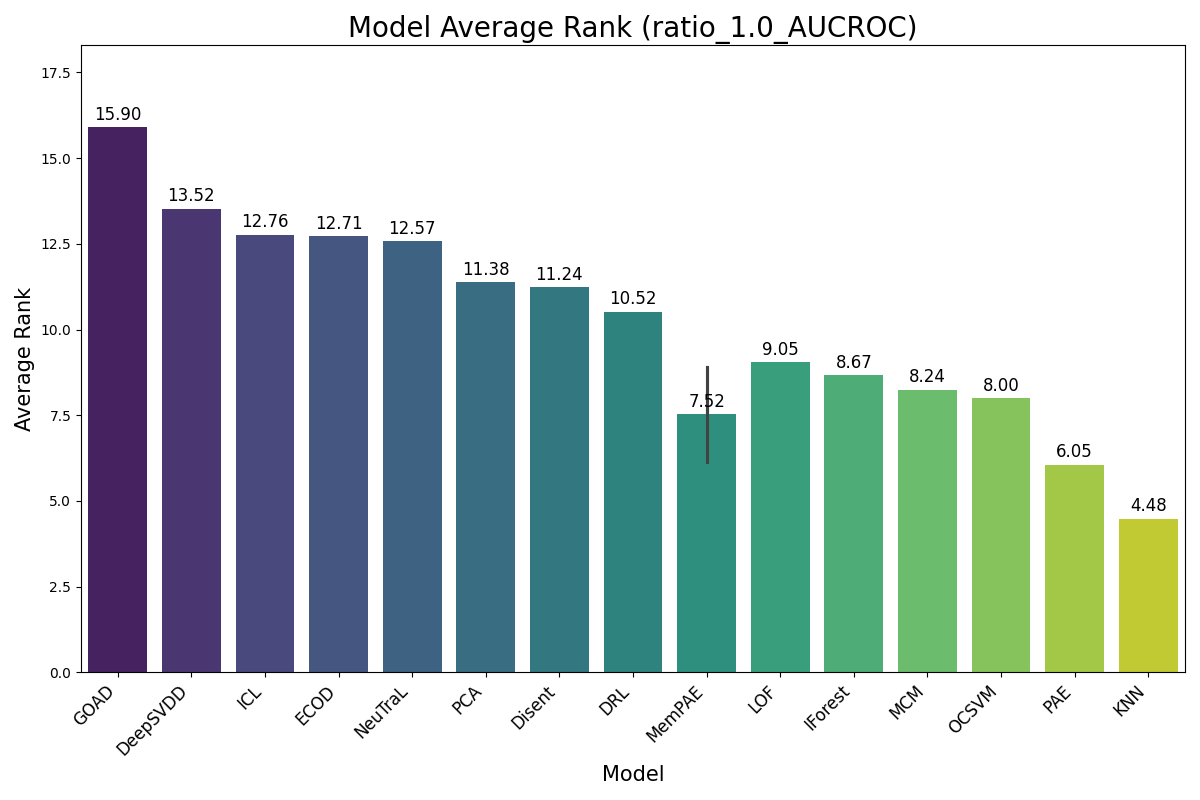
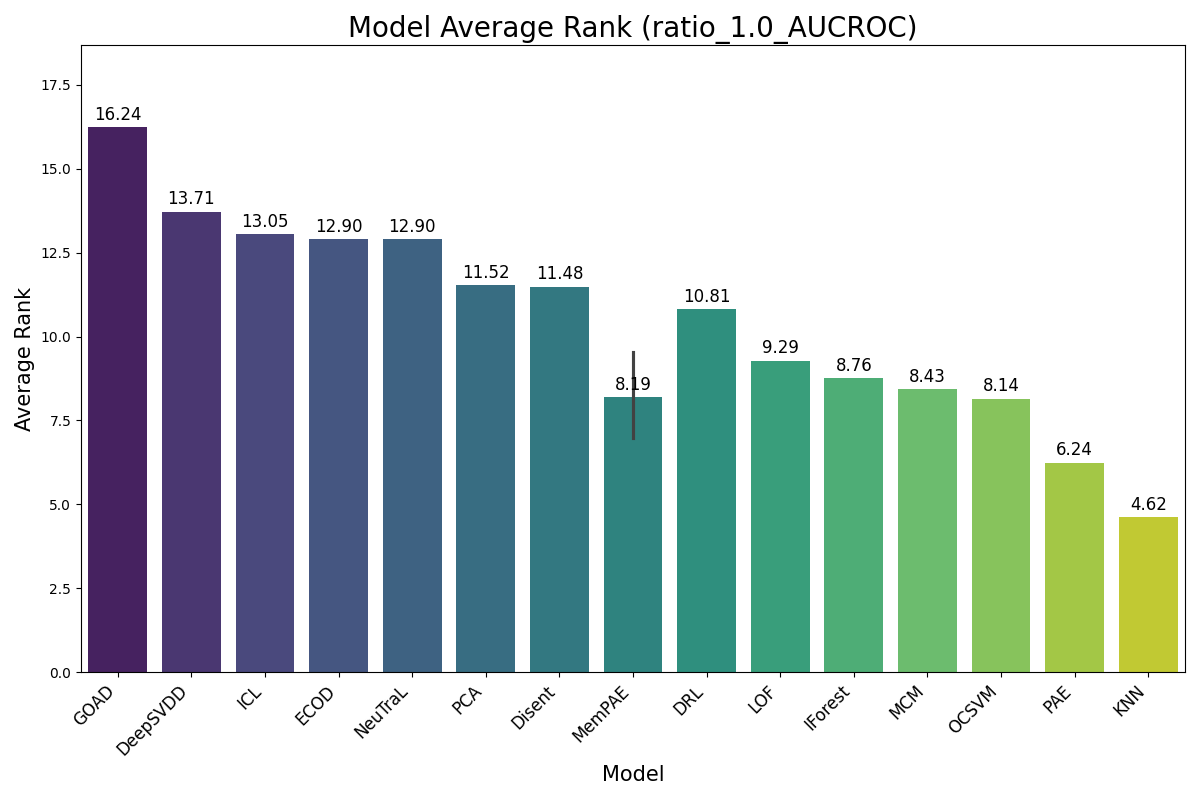
temp

diff --git a/summary.py b/summary.py
@@ -672,6 +672,8 @@ def main(args):
         'MemPAE-ws-pos_query+token-np-top3-L5-d64-lr0.001-t0.1',
         'MemPAE-ws-pos_query+token-np-top1-L5-d64-lr0.001-t0.1',
         'MemPAE-ws-l2-d64-lr0.001',
+        'MemPAE-ws-pos_query+token-np-l2-top5-L5-d64-lr0.001-t0.1',
+        'MemPAE-ws-pos_query+token-np-l2-top3-L5-d64-lr0.001-t0.1',
         # 'MemPAE-ws-pos_query+token-np-l2-top5-L5-d64-lr0.001-t0.1',
         # 'MemPAE-ws-pos_query+token-mlp_dec-d64-lr0.001-t0.1',
         # 'MemPAE-ws-pos_query+token-use_ent_score-ent10-d64-lr0.001-t0.1',
